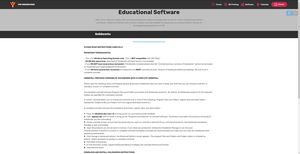
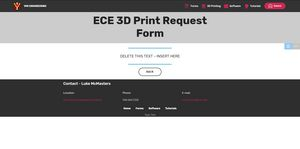
Updated Forms Links

diff --git a/laserrequest.html b/laserrequest.html
@@ -1,10 +1,10 @@
 <!DOCTYPE html>
 <html  >
 <head>
-  <!-- Site made with Mobirise Website Builder v4.12.0, https://mobirise.com -->
+  <!-- Site made with Mobirise Website Builder v4.11.5, https://mobirise.com -->
   <meta charset="UTF-8">
   <meta http-equiv="X-UA-Compatible" content="IE=edge">
-  <meta name="generator" content="Mobirise v4.12.0, mobirise.com">
+  <meta name="generator" content="Mobirise v4.11.5, mobirise.com">
   <meta name="viewport" content="width=device-width, initial-scale=1, minimum-scale=1">
   <link rel="shortcut icon" href="assets/images/vmilogotransparent-122x123.png" type="image/x-icon">
   <meta name="description" content="">
@@ -67,7 +67,7 @@
     </nav>
 </section>
 
-<section class="engine"><a href="https://mobirise.info/q">responsive site templates</a></section><section class="header1 cid-rIoC45AebY" id="header16-43">
+<section class="engine"><a href="https://mobirise.info/y">html website templates</a></section><section class="header1 cid-rIoC45AebY" id="header16-43">
 
     
 
@@ -93,8 +93,10 @@
     <div class="container">
         <div class="inner-container" style="width: 100%;">
             <hr class="line" style="width: 25%;">
-            <div class="section-text align-center mbr-fonts-style display-5">
-                    DELETE THIS TEXT - INSERT HERE</div>
+            <div class="cognito">
+<script src="https://services.cognitoforms.com/s/6Z0A7TpBcke1pnasHCMpFw"></script>
+<script>Cognito.load("forms", { id: "5" });</script>
+</div>
             <hr class="line" style="width: 25%;">
         </div>
         </div>

diff --git a/mentor.html b/mentor.html
@@ -1,10 +1,10 @@
 <!DOCTYPE html>
 <html  >
 <head>
-  <!-- Site made with Mobirise Website Builder v4.12.0, https://mobirise.com -->
+  <!-- Site made with Mobirise Website Builder v4.11.5, https://mobirise.com -->
   <meta charset="UTF-8">
   <meta http-equiv="X-UA-Compatible" content="IE=edge">
-  <meta name="generator" content="Mobirise v4.12.0, mobirise.com">
+  <meta name="generator" content="Mobirise v4.11.5, mobirise.com">
   <meta name="viewport" content="width=device-width, initial-scale=1, minimum-scale=1">
   <link rel="shortcut icon" href="assets/images/vmilogotransparent-122x123.png" type="image/x-icon">
   <meta name="description" content="">
@@ -67,7 +67,7 @@
     </nav>
 </section>
 
-<section class="engine"><a href="https://mobirise.info/v">free html templates</a></section><section class="header1 cid-rIoCil0pyu" id="header16-49">
+<section class="engine"><a href="https://mobirise.info/f">simple website creator</a></section><section class="header1 cid-rIoCil0pyu" id="header16-49">
 
     
 
@@ -93,8 +93,10 @@
     <div class="container">
         <div class="inner-container" style="width: 100%;">
             <hr class="line" style="width: 25%;">
-            <div class="section-text align-center mbr-fonts-style display-5">
-                    DELETE THIS TEXT - INSERT HERE</div>
+            <div class="cognito">
+<script src="https://services.cognitoforms.com/s/6Z0A7TpBcke1pnasHCMpFw"></script>
+<script>Cognito.load("forms", { id: "2" });</script>
+</div>
             <hr class="line" style="width: 25%;">
         </div>
         </div>

diff --git a/order_ece.html b/order_ece.html
@@ -1,10 +1,10 @@
 <!DOCTYPE html>
 <html  >
 <head>
-  <!-- Site made with Mobirise Website Builder v4.12.0, https://mobirise.com -->
+  <!-- Site made with Mobirise Website Builder v4.11.5, https://mobirise.com -->
   <meta charset="UTF-8">
   <meta http-equiv="X-UA-Compatible" content="IE=edge">
-  <meta name="generator" content="Mobirise v4.12.0, mobirise.com">
+  <meta name="generator" content="Mobirise v4.11.5, mobirise.com">
   <meta name="viewport" content="width=device-width, initial-scale=1, minimum-scale=1">
   <link rel="shortcut icon" href="assets/images/vmilogotransparent-122x123.png" type="image/x-icon">
   <meta name="description" content="">
@@ -67,7 +67,7 @@
     </nav>
 </section>
 
-<section class="engine"><a href="https://mobirise.info/l">free web templates</a></section><section class="header1 cid-rIivXmdwGR" id="header16-2y">
+<section class="engine"><a href="https://mobirise.info/e">make a website</a></section><section class="header1 cid-rIivXmdwGR" id="header16-2y">
 
     
 
@@ -93,8 +93,10 @@
     <div class="container">
         <div class="inner-container" style="width: 100%;">
             <hr class="line" style="width: 25%;">
-            <div class="section-text align-center mbr-fonts-style display-5">
-                    DELETE THIS TEXT - INSERT HERE</div>
+            <div class="cognito">
+<script src="https://services.cognitoforms.com/s/6Z0A7TpBcke1pnasHCMpFw"></script>
+<script>Cognito.load("forms", { id: "1" });</script>
+</div>
             <hr class="line" style="width: 25%;">
         </div>
         </div>
